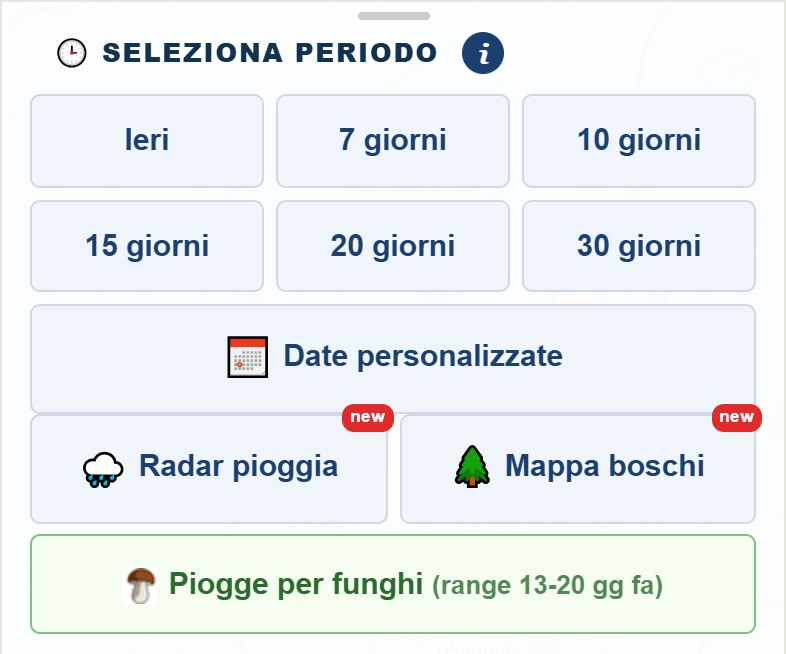
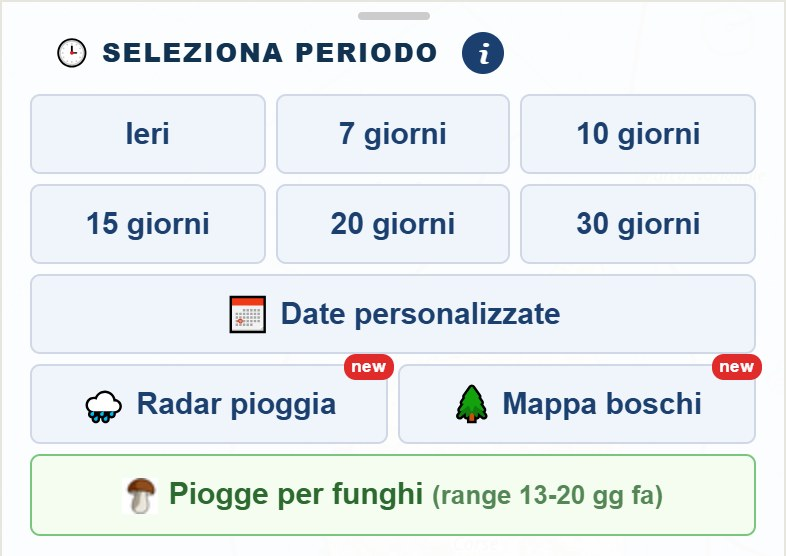
Telefono: pannello del periodo compatto e centratura dal link
- Tasti del periodo da 40 px (36 sotto i 375), margini ridotti: il
  pannello aperto passa da 342 a 307 px a 412x744.
- Il link ?r=<regione> non centrava la regione nella striscia libera
  sopra il pannello (Liguria 169 px sotto il centro): ora centra come
  la tendina, partendo un livello piu' largo.
- La centratura allarga sempre una regione che esce dalla striscia,
  anche dentro la banda morta (Campania e Calabria sforavano di 6-8 px).
- Foto del pannello nella guida rifatta.

diff --git a/index.html b/index.html
@@ -4209,7 +4209,13 @@ function centraRegioneInStriscia(){
     var f=Math.min(1.05*mBox.width/w0, 0.92*S/h0);
     // La banda morta evita l'oscillazione fra le due chiamate (alla seconda
     // i pallini delle stazioni allargano di poco la misura del disegnato).
-    if(f>1.09||f<0.85){
+    // ⚠ MA NON DEVE COPRIRE UNA REGIONE CHE ESCE DALLA STRISCIA (16/9/2026):
+    // con f fra 0,85 e 0,92 il confine sta gia' sotto la barra o dentro il
+    // pannello, e la banda lo lasciava li'. Misurato aprendo dal link:
+    // Campania al 104% dell'altezza, 6 px sotto la barra e 5 dentro il
+    // pannello; Calabria 8 e 7. Se esce davvero si allarga sempre.
+    var esce = h0 > S + 2;
+    if(f>1.09||f<0.85||(esce&&f<1)){
       var z1=Math.floor((map.getZoom()+Math.log(f)/Math.LN2)*4)/4; // passo 0.25
       if(z1!==map.getZoom()) map.setView(c0,z1,{animate:false});
     }
@@ -9522,7 +9528,28 @@ if(_btnShot){
            sola). Il radar entra al primo giro del suo controllo, 200 ms. */
       } else if(_pin && typeof fitMapToPunto==='function'){
         try{ fitMapToPunto(_vistaPaese.lat,_vistaPaese.lon,_vistaPaese.z?LOC_TACCA_ZONA:LOC_TACCA_FINE); }catch(e){}
-      } else { try{ fitMapToRegions(_kk); }catch(e){} }
+      } else {
+        try{ fitMapToRegions(_kk); }catch(e){}
+        /* ⚠ SUL TELEFONO IL FIT DA SOLO NON BASTA (16/9/2026, visto dall'utente
+           su Android col link ?r=liguria): fitMapToRegions inquadra la mappa
+           INTERA, e meta' mappa sta sotto il pannello del periodo. Misurato a
+           412x744: Liguria 169 px sotto il centro della striscia libera e 71 px
+           dentro il pannello. La tendina lo evita chiamando la centratura a
+           pannello aperto; qui mancava. Due tempi: a 420 ms il pannello ha
+           finito di aprirsi, a 1500 i confini veri sono arrivati e la misura
+           si fa sul disegnato invece che sulla bbox (la funzione e' idempotente,
+           la seconda chiamata non muove niente se la prima era giusta). */
+        /* ⚠ E UN LIVELLO PIU' LARGO, prima: il fit sulla mappa intera parte gia'
+           troppo vicino, e la centratura non allarga se la regione sfora di
+           meno del 9% (banda morta contro l'oscillazione). Misurato: Campania
+           104% dell'altezza, 6 px sotto la barra e 5 dentro il pannello. Dalla
+           tendina non succede perche' la vista di partenza e' piu' larga e la
+           centratura AVVICINA fino al tetto; qui si fa partire uguale. */
+        if(window.innerWidth<=900){
+          try{ map.setZoom(map.getZoom()-1,{animate:false}); }catch(e){}
+          setTimeout(centraRegioneInStriscia,420); setTimeout(centraRegioneInStriscia,1500);
+        }
+      }
       if(!_pin){
         var _sr=document.getElementById('region-select');
         if(_sr && _kk.length===1){ _sr.value=_kk[0]; if(typeof regEtichetta==='function') regEtichetta(); }
@@ -10706,6 +10733,32 @@ body.senza-pallini #map .leaflet-marker-pane .loc-pin svg{display:block}
    Restano i tre tasti che sono RADAR e rispondono alla domanda giusta. */
 /* ⚠ Il blur va messo sul PANNELLO e non sulle singole tessere: applicato
    tessera per tessera sfuma anche i bordi e si vedono le cuciture. */
+
+/* ── PANNELLO DEL PERIODO COMPATTO SUL TELEFONO (16/9/2026) ────────────────
+   Con la riga «Radar pioggia | Mappa boschi» il pannello aperto arrivava a
+   342 px su 698 di mappa a 412x744 (Android, segnalato dall'utente: «e' un
+   disastro»). Tasti da 47-55 px diventano tutti da 40, e i margini fra le
+   righe da 6 a 5: sotto i 40 px un pollice comincia a sbagliare tasto, sopra
+   si spreca mappa. Sotto i 375 px (iPhone SE e Android piccoli) 36 px, con
+   il testo a 14.
+   ⚠ La MANIGLIA col titolo non si tocca: da chiuso il pannello mostra solo
+   quella, e la sua altezza la usano la trasformazione e la centratura.
+   ⚠ L'altezza la fissa la line-height e non il padding da solo: l'emoji del
+   calendario e le icone dei due tasti alzavano la riga di 8 px, ed era per
+   quello che «Date personalizzate» e la coppia erano da 55 e i periodi da 47. */
+@media(max-width:900px){
+  #time-panel .tp-grid3{gap:5px !important;margin-bottom:5px !important;}
+  #time-panel .tp-btn{padding:9px 2px !important;font-size:15px !important;line-height:20px !important;}
+  #time-panel .tp-custom-btn{padding:9px 8px !important;font-size:15px !important;line-height:20px !important;margin-top:0 !important;}
+  #time-panel .rd-coppia{margin-top:5px !important;gap:5px !important;}
+  #time-panel .rd-ic{font-size:1.15em;line-height:1;vertical-align:-1px;}
+  #time-panel #btn-funghi{padding:9px 8px !important;font-size:15px !important;line-height:20px !important;margin-top:5px !important;}
+  #tp-links{margin:6px 0 0 !important;}
+}
+@media(max-width:375px){
+  #time-panel .tp-btn{padding:8px 1px !important;font-size:14px !important;line-height:18px !important;}
+  #time-panel .tp-custom-btn,#time-panel #btn-funghi{padding:8px 6px !important;font-size:14px !important;line-height:18px !important;}
+}
 </style>
 <script>
 /* ═══════════════════════════════════════════════════════════════

diff --git a/guida/index.html b/guida/index.html
@@ -320,7 +320,7 @@ td:first-child{font-weight:600;color:#2c3e54;white-space:nowrap}
 <p>Il pannello del periodo somma la pioggia dei giorni che scegli. I tasti pronti sono sei, più le date libere.</p>
 
 <figure class="stretta">
-  <img src="periodo.jpg" alt="Il pannello del periodo: Ieri, 7, 10, 15, 20, 30 giorni, Date personalizzate, Radar pioggia, Mappa boschi e Piogge per funghi" width="786" height="654" loading="lazy">
+  <img src="periodo.jpg" alt="Il pannello del periodo: Ieri, 7, 10, 15, 20, 30 giorni, Date personalizzate, Radar pioggia, Mappa boschi e Piogge per funghi" width="786" height="556" loading="lazy">
   <figcaption>Sei periodi pronti, le date libere, il radar, la mappa boschi e il tasto verde della finestra per i funghi.</figcaption>
 </figure>
 
